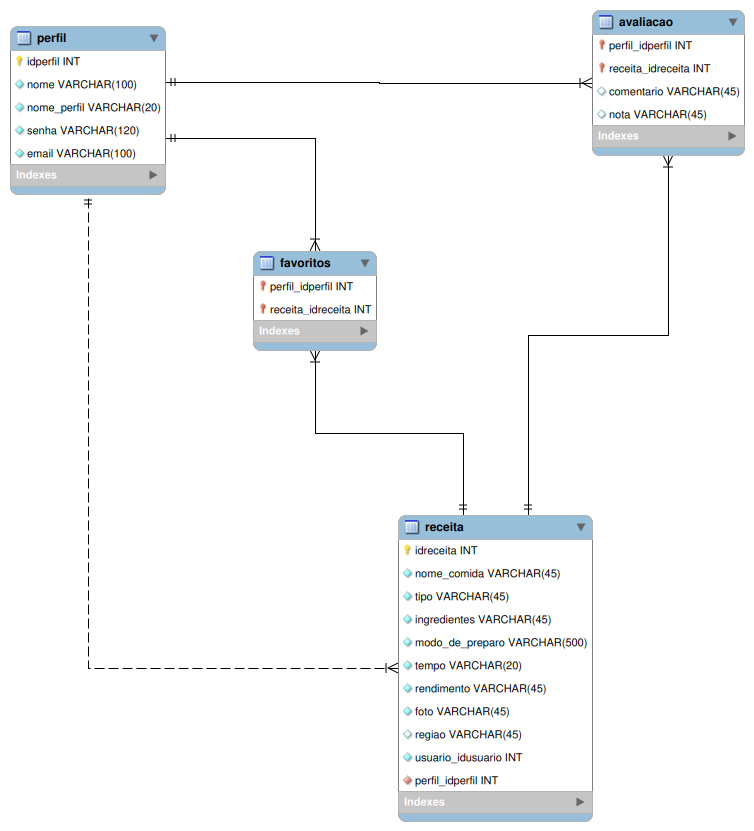
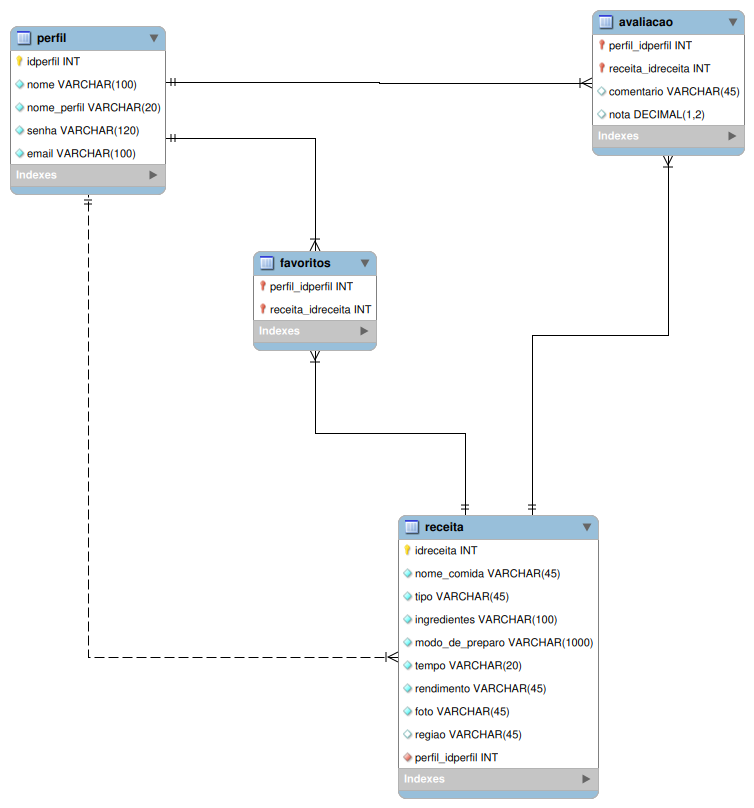
banco de dados

diff --git a/codigo/funcoes.php b/codigo/funcoes.php
@@ -11,12 +11,12 @@ function salvarPerfil($conexao, $nome, $nome_perfil, $email, $senha) {
 
 }
 
-function salvarReceita($conexao, $nome_comida, $tipo, $ingredientes, $modo_de_preparo, $tempo, $rendimento, $foto, $regiao, $usuario_idusuario) {
-    $sql = "INSERT INTO receita (nome_comida, tipo, ingredientes, modo_de_preparo, tempo, rendimento, foto, regiao, usuario_idusuario) 
+function salvarReceita($conexao, $nome_comida, $tipo, $ingredientes, $modo_de_preparo, $tempo, $rendimento, $foto, $regiao, $perfil_idperfil) {
+    $sql = "INSERT INTO receita (nome_comida, tipo, ingredientes, modo_de_preparo, tempo, rendimento, foto, regiao, perfil_iderfil) 
             VALUES (?, ?, ?, ?, ?, ?, ?, ?, ?)";
     $comando = mysqli_prepare($conexao, $sql);
 
-    mysqli_stmt_bind_param($comando, 'sssssssss', $nome_comida, $tipo, $ingredientes, $modo_de_preparo, $tempo, $rendimento, $foto, $regiao, $usuario_idusuario);
+    mysqli_stmt_bind_param($comando, 'sssssssss', $nome_comida, $tipo, $ingredientes, $modo_de_preparo, $tempo, $rendimento, $foto, $regiao, $perfil_idperfil);
 
     mysqli_stmt_execute($comando);
     mysqli_stmt_close($comando);
